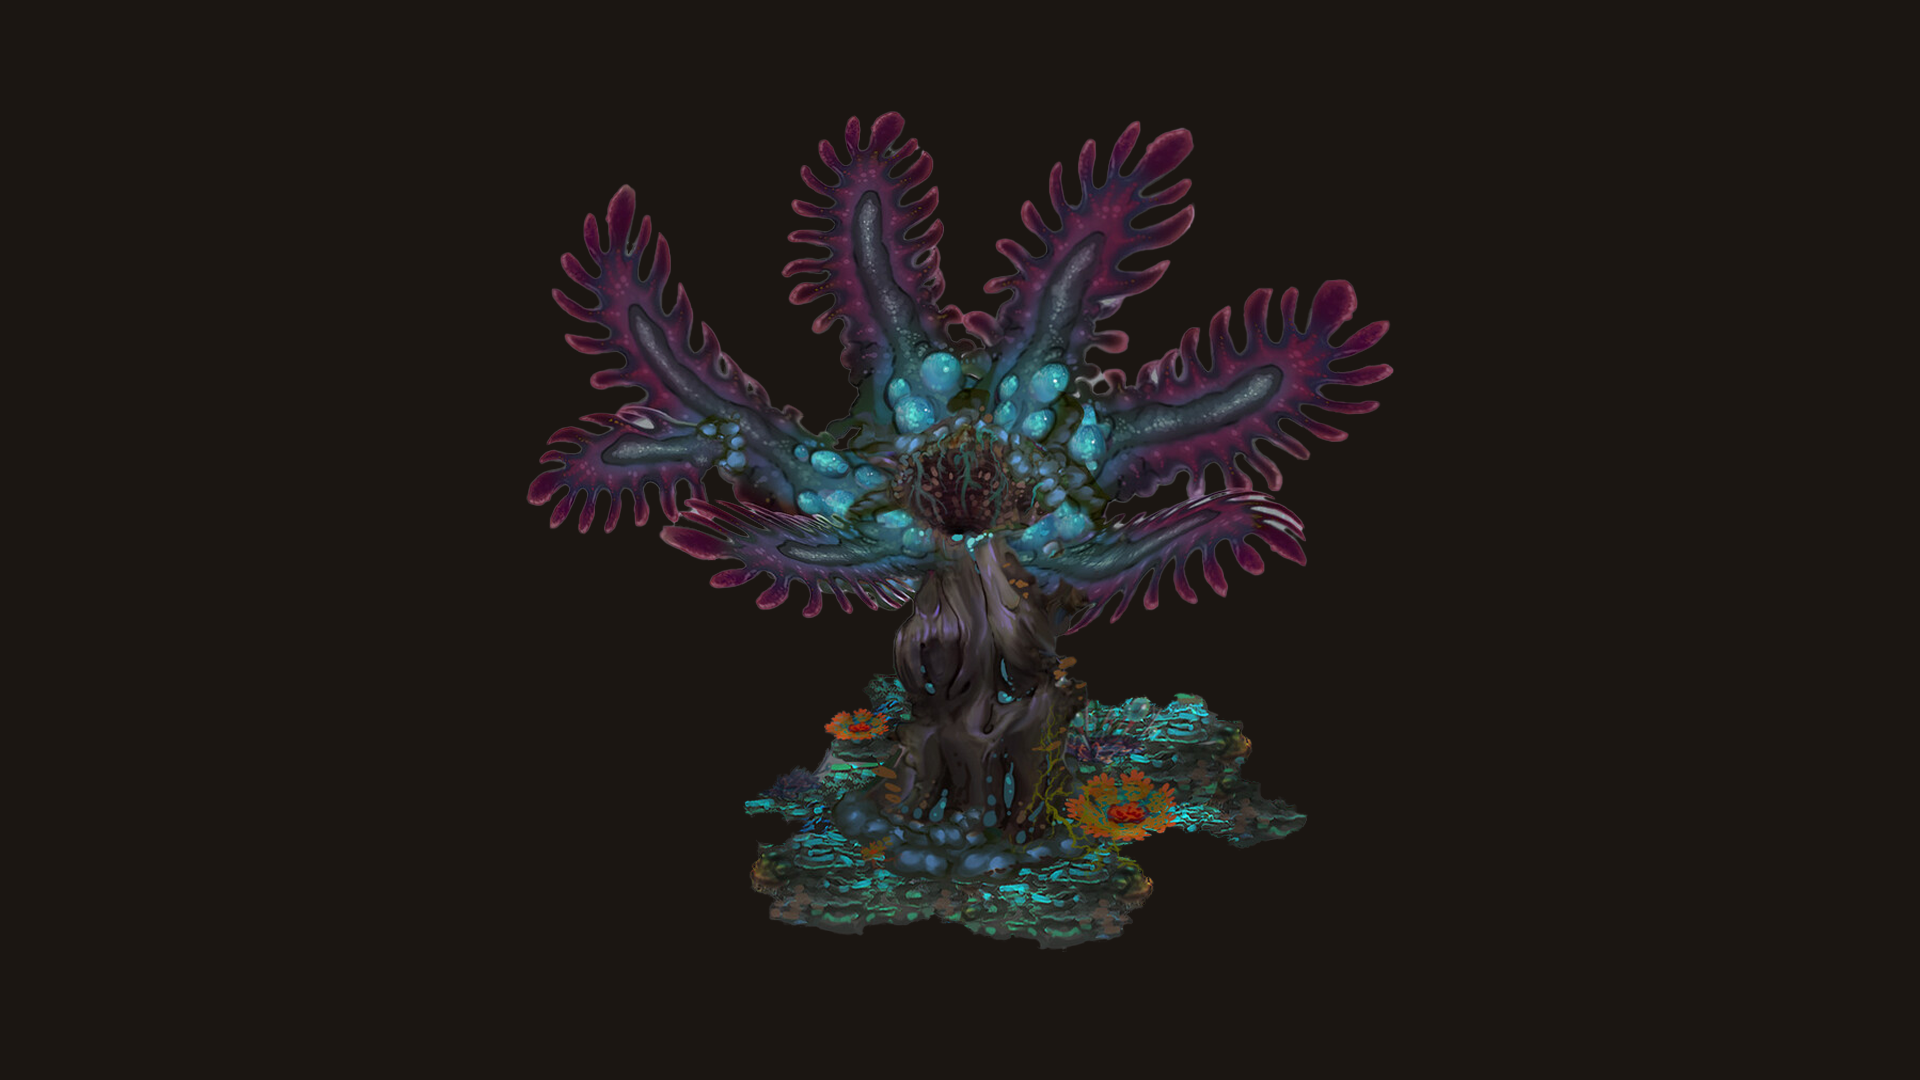
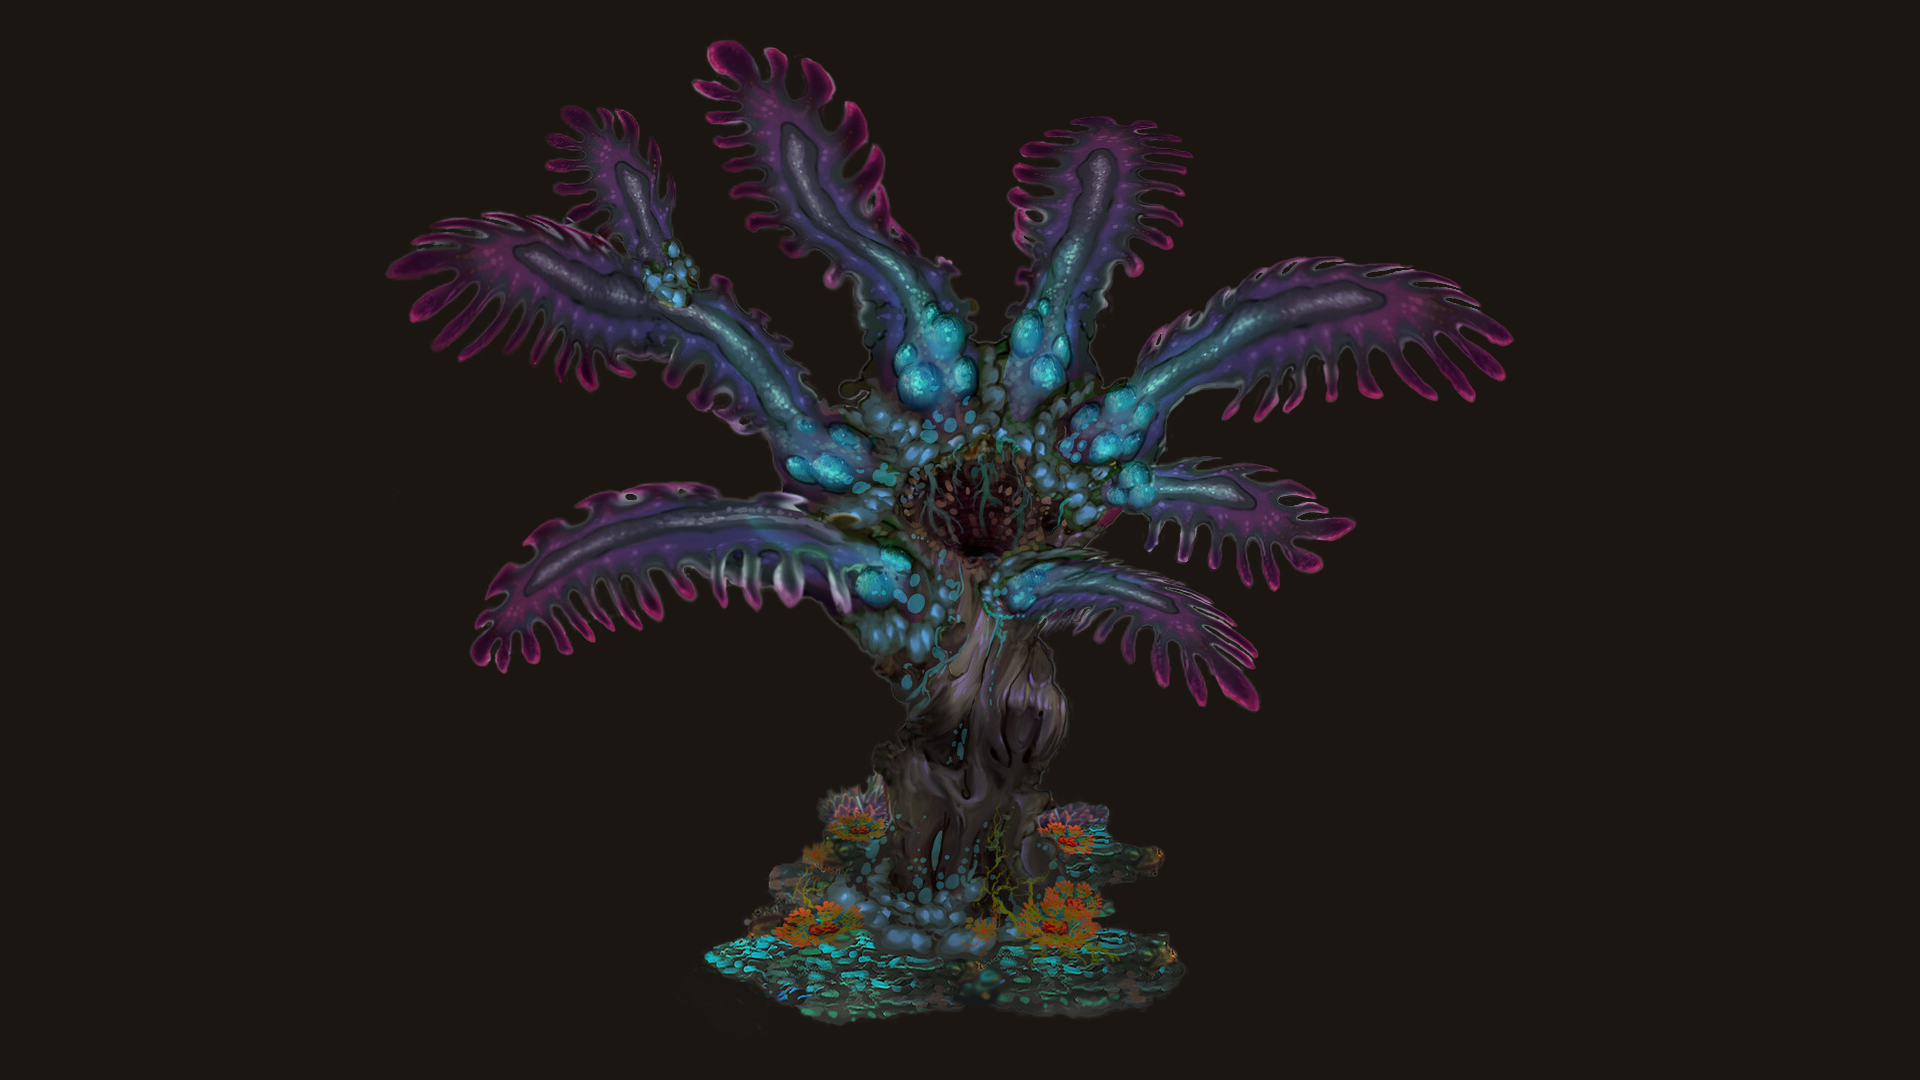
1

Changed region(s): [[0.1875, 0.0306, 0.7812, 0.9472]]

diff --git a/index.html b/index.html
@@ -77,7 +77,7 @@
 
 
         <div>
-            <h1>ERFAHRE MEHR</h1>
+            <h1 id="erfahre">ERFAHRE MEHR</h1>
 
         </div>
         <div id="boxright" class="box">
@@ -107,29 +107,42 @@
 
 
     <div class="background" id="b4">
-        <div id="symbox">
+        <div id="dsymb">
+            <div id="symbox">
 
-            <h2>SYMBIOSE VERÄNDERT.ALLES</h2>
 
-            <p class="font">Lorem ipsum dolor sit amet, consetetur sadipscing elitr, sed diam nonumy eirmod tempor
-                invidunt
-                ut labore et dolore magna aliquyam erat, sed diam voluptua. At vero eos et accusam et justo duo dolores
-                et
-                ea rebum. Stet clita kasd gubergren, no sea takimata sanctus est Lorem ipsum dolor sit amet. Lorem ipsum
-                dolor sit amet, consetetur sadipscing elitr, sed diam nonumy eirmod tempor invidunt ut labore et dolore
-                magna aliquyam erat, sed diam voluptua. At vero eos et accusam.. At vero eos et accusam et justo duo
-                dolores
-                et ea rebum. Stet clita kasd gubergren, no sea takimata sanctus est Lorem ipsum dolor sit amet. . At
-                vero
-                eos et accusam et justo duo dolores et ea rebum. Stet clita kasd gubergren, no sea takimata sanctus est
-                Lorem ipsum dolor sit amet. Lorem ipsum dolor sit amet, consetetur sadipscing elitr, sed diam nonumy
-                eir.
-            </p>
+                <h2>SYMBIOSE VERÄNDERT.ALLES</h2>
 
+                <p class="font">Lorem ipsum dolor sit amet, consetetur sadipscing elitr, sed diam nonumy eirmod tempor
+                    invidunt
+                    ut labore et dolore magna aliquyam erat, sed diam voluptua. At vero eos et accusam et justo duo
+                    dolores
+                    et
+                    ea rebum. Stet clita kasd gubergren, no sea takimata sanctus est Lorem ipsum dolor sit amet. Lorem
+                    ipsum
+                    dolor sit amet, consetetur sadipscing elitr, sed diam nonumy eirmod tempor invidunt ut labore et
+                    dolore
+                    magna aliquyam erat, sed diam voluptua. At vero eos et accusam.. At vero eos et accusam et justo duo
+                    dolores
+                    et ea rebum. Stet clita kasd gubergren, no sea takimata sanctus est Lorem ipsum dolor sit amet. . At
+                    vero
+                    eos et accusam et justo duo dolores et ea rebum. Stet clita kasd gubergren, no sea takimata sanctus
+                    est
+                    Lorem ipsum dolor sit amet. Lorem ipsum dolor sit amet, consetetur sadipscing elitr, sed diam nonumy
+                    eir.
+                </p>
+
+            </div>
+            <svg class="svgdreieck" xmlns="http://www.w3.org/2000/svg" width="539" height="15" viewBox="0 0 539 15"
+                fill="none">
+                <path d="M539 7.5L0.5 14.8612V0.138784L539 7.5Z" fill="#FEFE00" />
+            </svg>
+            
         </div>
         <img class="pictures" id="plant4" src="pic/ahornblattbrowncreep2.png" alt="ahorn">
+        
 
-        <div class="dreieck"></div>
+
 
     </div>
 
@@ -141,7 +154,10 @@
     <div class="background" id="b5">
         <div>
             <h1 id="konfiu">ERSTELLE DEINE EIGENE PFLANZE</h1>
-            <div id="dreiecku" class="dreieck"></div>
+            <svg class="svgd2" xmlns="http://www.w3.org/2000/svg" width="1000" height="15" viewBox="0 0 1000 15"
+                fill="none">
+                <path d="M1000 7.5L0.25 14.8612V0.138784L1000 7.5Z" fill="#FEFE00" />
+            </svg>
 
             <div id="generator" class="font">
                 <a class="button">FARBE</a>
@@ -160,13 +176,7 @@
                 <div class="platzhalter"></div>
 
 
-                <a id="d1" class="dreieck">
-                    <p class="style"> STYLE 1</p>
-                </a>
-
-                <a id="d2" class="dreieck">
-                    <p class="style"> STYLE 2</p>
-                </a>
+               
             </div>
 
 
@@ -182,9 +192,12 @@
 
         <div>
             <h1 id="medienfont"> MEDIEN</h1>
-            <div id="dreiecku" class="dreieck">
-            </div>
 
+
+            <svg class="svgd2" xmlns="http://www.w3.org/2000/svg" width="1000" height="15" viewBox="0 0 1000 15"
+                fill="none">
+                <path d="M1000 7.5L0.25 14.8612V0.138784L1000 7.5Z" fill="#FEFE00" />
+            </svg>
         </div>
 
         <div class="swiper">
@@ -223,18 +236,21 @@
 
         <div class="dreieckbig">
             <svg xmlns="http://www.w3.org/2000/svg" width="1920.637" height="104.4" viewBox="0 0 1920.637 104.4">
-                <path id="Pfad_7" data-name="Pfad 7" d="M52.2,0l52.2,1920.637H0Z" transform="translate(1920.637) rotate(90)" fill="#fefe00"/>
-              </svg>
+                <path id="Pfad_7" data-name="Pfad 7" d="M52.2,0l52.2,1920.637H0Z"
+                    transform="translate(1920.637) rotate(90)" fill="#fefe00" />
+            </svg>
         </div>
         <div class="fomular-container">
             <form class="formular">
                 <p class="bold uppercase">Sei der/die erste!</strong>
                 <p class="uppercase">Registriere dich für die neusten Updates der Pflanzenwelt</p>
-                <input type="email" id="email" name="email" placeholder="Bitte deine E-Mail-Adresse eingeben" class="uppercase"><br>
+                <input type="email" id="email" name="email" placeholder="Bitte deine E-Mail-Adresse eingeben"
+                    class="uppercase"><br>
                 <div class="checkbox">
                     <input type="checkbox" />
-                    <label for="checkbox">Ich möchte Neuigkeiten, Sonderangebote und sonstige Informationen von CYBERPLANT erhalten und bin mindestens sechzehn Jahre alt.</label>
-                    
+                    <label for="checkbox">Ich möchte Neuigkeiten, Sonderangebote und sonstige Informationen von
+                        CYBERPLANT erhalten und bin mindestens sechzehn Jahre alt.</label>
+
                 </div>
                 <input type="submit" value="Absenden" class="uppercase">
             </form>
@@ -242,8 +258,9 @@
 
         <div class="dreieckbig flip">
             <svg xmlns="http://www.w3.org/2000/svg" width="1920.637" height="104.4" viewBox="0 0 1920.637 104.4">
-                <path id="Pfad_7" data-name="Pfad 7" d="M52.2,0l52.2,1920.637H0Z" transform="translate(1920.637) rotate(90)" fill="#fefe00"/>
-              </svg>
+                <path id="Pfad_7" data-name="Pfad 7" d="M52.2,0l52.2,1920.637H0Z"
+                    transform="translate(1920.637) rotate(90)" fill="#fefe00" />
+            </svg>
         </div>
     </div>
 

diff --git a/style.css b/style.css
@@ -74,6 +74,7 @@ html {
     margin-right: auto;
     max-width: 100%;
     max-height: auto;
+    padding: 2%;
 
 
 }
@@ -83,7 +84,7 @@ html {
     margin-left: auto;
     margin-right: auto;
     position: absolute;
-    padding: 10%;
+    padding: 2%;
 }
 
 figure {
@@ -119,7 +120,7 @@ figure {
     float: right;
     position: absolute;
     bottom: 35%;
-    right: 35%;
+    right: 30%;
     font-size: 130%;
 }
 
@@ -156,7 +157,9 @@ h1 {
     font-size: 50pt;
     margin-top: 5%;
 }
-
+#erfahre{
+    left: 33%;
+}
 
 .pictures {
     display: block;
@@ -174,7 +177,7 @@ h1 {
 .ranke {
     display: block;
     margin-left: auto;
-    margin-top: 10%;
+    margin-top: 29%;
     right: -5%;
     width: 50%;
     position: absolute;
@@ -186,8 +189,8 @@ h1 {
 
 #ranke2 {
     rotate: -30deg;
-    right: 50%;
-    margin-top: 35%;
+    right: 50.2%;
+    margin-top: 36%;
 
 
 }
@@ -216,6 +219,7 @@ h1 {
 #plant4 {
 
     border: none;
+    top: 6%;
 }
 
 .dreieck {
@@ -440,4 +444,14 @@ input[type="submit"]:hover {
 
 .checkbox > input {
     margin-right: 5px;
+}
+.svgdreieck{
+    position: relative;
+    margin: 24.5% 0;
+   
+}
+.svgd2{
+    position: relative;
+    margin: 4.3% 0;
+
 }
